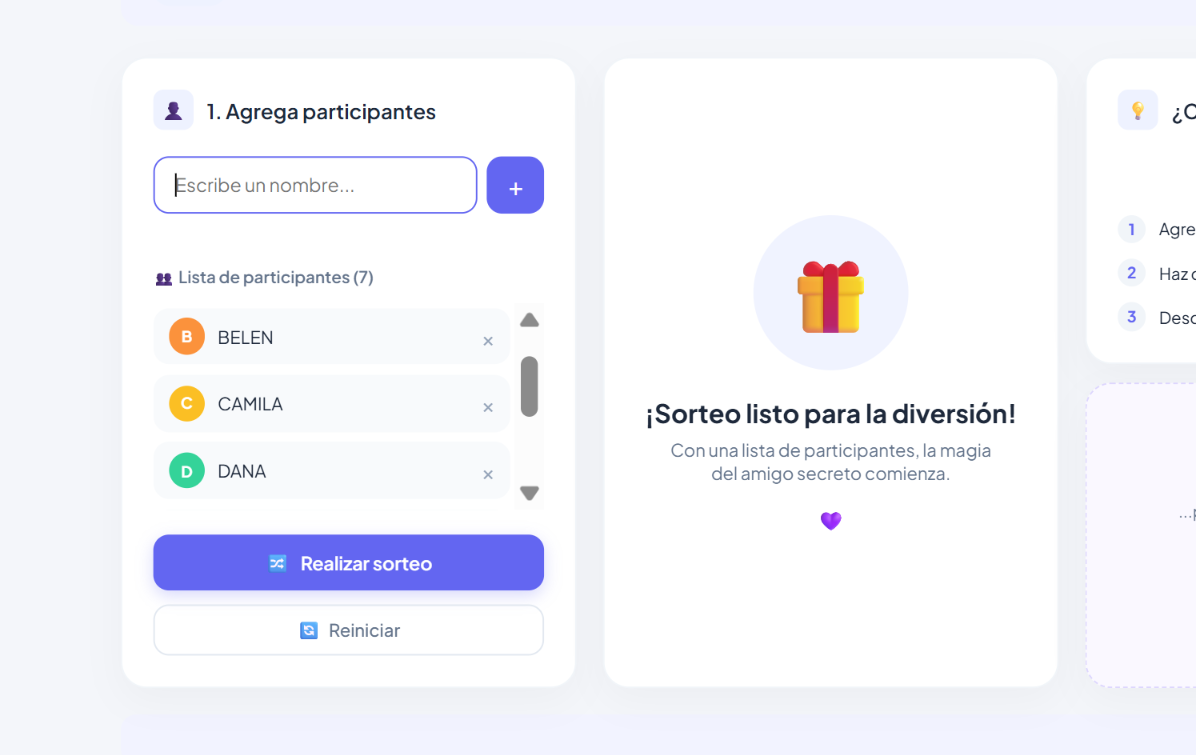
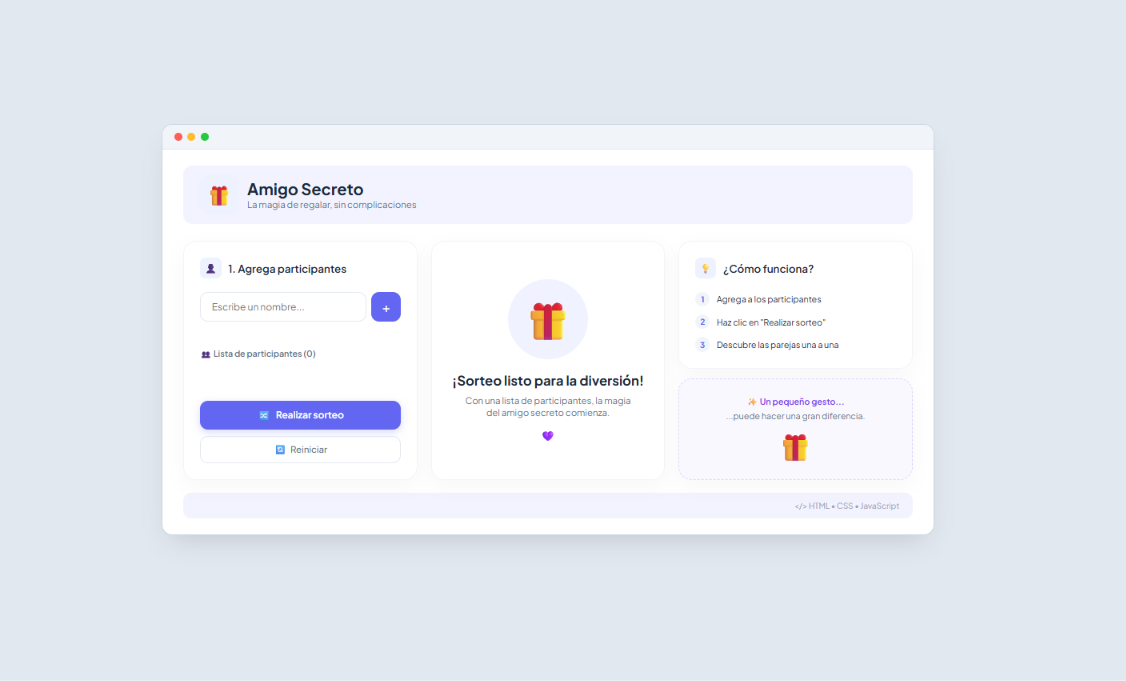
style: envolver interfaz en marco estilo navegador y ajustar ancho máximo

diff --git a/index.html b/index.html
@@ -15,141 +15,137 @@
 </head>
 <body>
 
-    <!-- Contenedor principal que envuelve toda la aplicación -->
-    <div class="app-container">
+    <body>
 
-        <!-- ========================================== -->
-        <!-- 1. ENCABEZADO SUPERIOR (Header)            -->
-        <!-- ========================================== -->
-        <header class="app-header">
-            <!-- Logotipo y título del proyecto -->
-            <div class="brand">
-                <div class="brand-icon">🎁</div>
-                <div class="brand-text">
-                    <h1>Amigo Secreto</h1>
-                    <p>La magia de regalar, sin complicaciones</p>
+    <!-- Fondo de pantalla general -->
+    <div class="wrapper-bg">
+
+        <!-- Ventana estilo Navegador (Mockup) -->
+        <div class="browser-frame">
+            
+            <!-- Barra superior estilo Mac con los 3 botoncitos -->
+            <div class="browser-header">
+                <div class="browser-dots">
+                    <span class="dot dot-close"></span>
+                    <span class="dot dot-minimize"></span>
+                    <span class="dot dot-expand"></span>
                 </div>
             </div>
-        </header>
 
-        <!-- ========================================== -->
-        <!-- 2. GRILLA PRINCIPAL DE 3 COLUMNAS (Main)   -->
-        <!-- ========================================== -->
-        <main class="dashboard-grid">
-            
-            <!-- -------------------------------------- -->
-            <!-- COLUMNA 1: Formulario, Lista y Acciones -->
-            <!-- -------------------------------------- -->
-            <section class="card card-input">
-                <!-- Título del paso 1 -->
-                <div class="card-header">
-                    <span class="step-icon">👤</span>
-                    <h2>1. Agrega participantes</h2>
-                </div>
+            <!-- CONTENIDO DE TU APP (Tu div actual de siempre) -->
+            <div class="app-container">
 
-                <!-- Campo de texto y botón '+' para añadir nombres -->
-                <div class="input-group">
-                    <input type="text" id="amigo" placeholder="Escribe un nombre..." autocomplete="off">
-                    <button id="btnAgregar" onclick="agregarAmigo()" class="btn-add">+</button>
-                </div>
-                <!-- Párrafo dinámico para mostrar mensajes de error -->
-                <p id="mensaje-error" class="error-text"></p>
-
-                <!-- Área donde se renderizarán los nombres agregados -->
-                <div class="list-section">
-                    <div class="list-header">
-                        <span>👥 Lista de participantes (<span id="contador">0</span>)</span>
+                <!-- 1. ENCABEZADO SUPERIOR (Header) -->
+                <header class="app-header">
+                    <div class="brand">
+                        <div class="brand-icon">🎁</div>
+                        <div class="brand-text">
+                            <h1>Amigo Secreto</h1>
+                            <p>La magia de regalar, sin complicaciones</p>
+                        </div>
                     </div>
-                    <ul id="listaAmigos" class="participants-list"></ul>
-                </div>
+                </header>
 
-                <!-- Botones de control (Sorteo y Reinicio) -->
-                <div class="actions-group">
-                    <button class="btn-primary" onclick="sortearAmigo()">
-                        <span>🔀</span> Realizar sorteo
-                    </button>
-                    <button class="btn-secondary" onclick="reiniciarJuego()">
-                        <span>🔄</span> Reiniciar
-                    </button>
-                </div>
-            </section>
+                <!-- 2. GRILLA PRINCIPAL DE 3 COLUMNAS (Main) -->
+                <main class="dashboard-grid">
+                    
+                    <!-- COLUMNA 1 -->
+                    <section class="card card-input">
+                        <div class="card-header">
+                            <span class="step-icon">👤</span>
+                            <h2>1. Agrega participantes</h2>
+                        </div>
+                        <div class="input-group">
+                            <input type="text" id="amigo" placeholder="Escribe un nombre..." autocomplete="off">
+                            <button id="btnAgregar" onclick="agregarAmigo()" class="btn-add">+</button>
+                        </div>
+                        <p id="mensaje-error" class="error-text"></p>
 
-            <!-- -------------------------------------- -->
-            <!-- COLUMNA 2: Ilustración central / Resultado Paso a Paso -->
-            <!-- -------------------------------------- -->
-            <section class="card card-display">
-                <!-- Estado Inicial: Muestra la ilustración antes de sortear -->
-                <div id="display-inicial" class="display-content">
-                    <div class="illustration-box">
-                        <span class="gift-emoji">🎁</span>
-                    </div>
-                    <h2>¡Sorteo listo para la diversión!</h2>
-                    <p>Con una lista de participantes, la magia del amigo secreto comienza.</p>
-                    <span class="heart-icon">💜</span>
-                </div>
+                        <div class="list-section">
+                            <div class="list-header">
+                                <span>👥 Lista de participantes (<span id="contador">0</span>)</span>
+                            </div>
+                            <ul id="listaAmigos" class="participants-list"></ul>
+                        </div>
 
-                <!-- Estado Resultado: Se muestra al presionar "Realizar sorteo" -->
-                <div id="display-resultado" class="display-content hidden">
-                    <div class="winner-box">
-                        <span class="trophy-emoji">🎉</span>
-                    </div>
-                    <p id="contador-pareja" class="result-label">Pareja 1 de X</p>
-                    <h2 id="resultado" class="winner-name">---</h2>
+                        <div class="actions-group">
+                            <button class="btn-primary" onclick="sortearAmigo()">
+                                <span>🔀</span> Realizar sorteo
+                            </button>
+                            <button class="btn-secondary" onclick="reiniciarJuego()">
+                                <span>🔄</span> Reiniciar
+                            </button>
+                        </div>
+                    </section>
 
-                    <!-- Botón para avanzar a la siguiente pareja -->
-                    <button id="btnSiguiente" class="btn-primary" onclick="siguientePareja()" style="margin-top: 20px;">
-                        Siguiente Pareja ➔
-                    </button>
-                </div>
-            </section>
+                    <!-- COLUMNA 2 -->
+                    <section class="card card-display">
+                        <div id="display-inicial" class="display-content">
+                            <div class="illustration-box">
+                                <span class="gift-emoji">🎁</span>
+                            </div>
+                            <h2>¡Sorteo listo para la diversión!</h2>
+                            <p>Con una lista de participantes, la magia del amigo secreto comienza.</p>
+                            <span class="heart-icon">💜</span>
+                        </div>
 
-            <!-- -------------------------------------- -->
-            <!-- COLUMNA 3: Tarjetas de Información e Inspiración -->
-            <!-- -------------------------------------- -->
-            <aside class="sidebar-column">
-                <!-- Tarjeta "¿Cómo funciona?" -->
-                <div class="card card-info">
-                    <div class="card-header">
-                        <span class="step-icon">💡</span>
-                        <h2>¿Cómo funciona?</h2>
-                    </div>
-                    <ol class="instructions-list">
-                        <li>
-                            <span class="num">1</span>
-                            <span>Agrega a los participantes</span>
-                        </li>
-                        <li>
-                            <span class="num">2</span>
-                            <span>Haz clic en "Realizar sorteo"</span>
-                        </li>
-                        <li>
-                            <span class="num">3</span>
-                            <span>Descubre las parejas una a una</span>
-                        </li>
-                    </ol>
-                </div>
+                        <div id="display-resultado" class="display-content hidden">
+                            <div class="winner-box">
+                                <span class="trophy-emoji">🎉</span>
+                            </div>
+                            <p id="contador-pareja" class="result-label">Pareja 1 de X</p>
+                            <h2 id="resultado" class="winner-name">---</h2>
+                            <button id="btnSiguiente" class="btn-primary" onclick="siguientePareja()" style="margin-top: 20px;">
+                                Siguiente Pareja ➔
+                            </button>
+                        </div>
+                    </section>
 
-                <!-- Tarjeta con frase inspiradora e icono -->
-                <div class="card card-quote">
-                    <div class="quote-header">
-                        <span>✨ Un pequeño gesto...</span>
-                    </div>
-                    <p>...puede hacer una gran diferencia.</p>
-                    <div class="gift-mini-box">🎁</div>
-                </div>
-            </aside>
+                    <!-- COLUMNA 3 -->
+                    <aside class="sidebar-column">
+                        <div class="card card-info">
+                            <div class="card-header">
+                                <span class="step-icon">💡</span>
+                                <h2>¿Cómo funciona?</h2>
+                            </div>
+                            <ol class="instructions-list">
+                                <li>
+                                    <span class="num">1</span>
+                                    <span>Agrega a los participantes</span>
+                                </li>
+                                <li>
+                                    <span class="num">2</span>
+                                    <span>Haz clic en "Realizar sorteo"</span>
+                                </li>
+                                <li>
+                                    <span class="num">3</span>
+                                    <span>Descubre las parejas una a una</span>
+                                </li>
+                            </ol>
+                        </div>
 
-        </main>
+                        <div class="card card-quote">
+                            <div class="quote-header">
+                                <span>✨ Un pequeño gesto...</span>
+                            </div>
+                            <p>...puede hacer una gran diferencia.</p>
+                            <div class="gift-mini-box">🎁</div>
+                        </div>
+                    </aside>
 
-        <!-- ========================================== -->
-        <!-- 3. PIE DE PAGINA (Footer)                  -->
-        <!-- ========================================== -->
-        <footer class="app-footer">
-            <p class="tech-stack">&lt;/&gt; HTML • CSS • JavaScript</p>
-        </footer>
-    </div>
+                </main>
 
-    <!-- Carga de la lógica JavaScript -->
+                <!-- 3. PIE DE PAGINA -->
+                <footer class="app-footer">
+                    <p class="tech-stack">&lt;/&gt; HTML • CSS • JavaScript</p>
+                </footer>
+            </div> <!-- Fin .app-container -->
+
+        </div> <!-- Fin .browser-frame -->
+
+    </div> <!-- Fin .wrapper-bg -->
+
     <script src="app.js"></script>
+</body>
 </body>
 </html>

diff --git a/style.css b/style.css
@@ -404,6 +404,71 @@ body {
     padding: 12px 20px;
 }
 
+/* ==========================================================================
+   ESTILOS DE CONTENEDOR TIPO NAVEGADOR (MOCKUP) Y CONTROL DE TAMAÑO
+   ========================================================================== */
+
+/* Fondo general que llena toda la pantalla */
+body {
+    margin: 0;
+    padding: 0;
+    background-color: #e2e8f0; /* Fondo gris suave para destacar el marco */
+    min-height: 100vh;
+    display: flex;
+    justify-content: center;
+    align-items: center;
+}
+
+/* Envoltorio exterior con padding para evitar tocar bordes */
+.wrapper-bg {
+    width: 100%;
+    max-width: 1200px;
+    padding: 20px;
+    box-sizing: border-box;
+}
+
+/* Ventana estilo navegador */
+.browser-frame {
+    background: #ffffff;
+    border-radius: 16px;
+    box-shadow: 0 20px 40px -15px rgba(0, 0, 0, 0.15);
+    overflow: hidden;
+    border: 1px solid #cbd5e1;
+}
+
+/* Barra superior del navegador */
+.browser-header {
+    background-color: #f1f5f9;
+    padding: 12px 18px;
+    border-bottom: 1px solid #e2e8f0;
+    display: flex;
+    align-items: center;
+}
+
+/* Puntos de colores estilo Mac (Rojo, Amarillo, Verde) */
+.browser-dots {
+    display: flex;
+    gap: 8px;
+}
+
+.dot {
+    width: 12px;
+    height: 12px;
+    border-radius: 50%;
+    display: inline-block;
+}
+
+.dot-close { background-color: #ff5f56; }
+.dot-minimize { background-color: #ffbd2e; }
+.dot-expand { background-color: #27c93f; }
+
+/* Ajuste interno de la app dentro de la ventana */
+.app-container {
+    padding: 24px 32px;
+    max-width: 100% !important; /* Aprovecha el ancho del marco */
+    margin: 0 auto;
+}
+
 @media (max-width: 900px) {
     .dashboard-grid {
         grid-template-columns: 1fr; /* Columna única en móviles */
